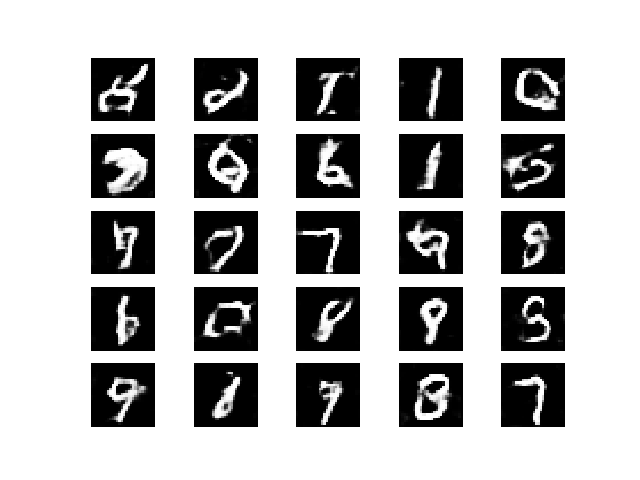
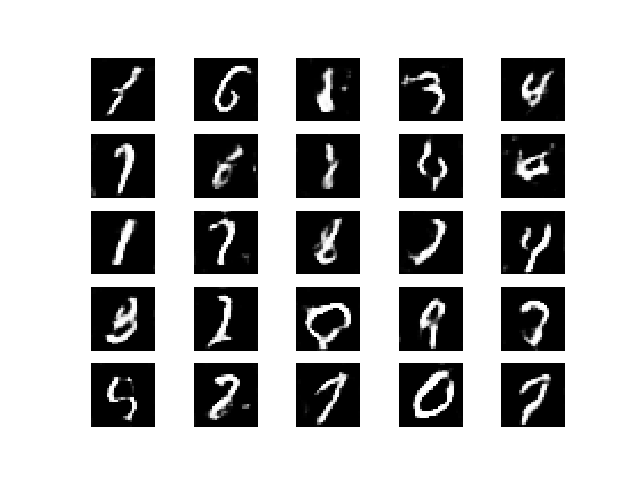
Add output of running dcgan for 20000 epochs

diff --git a/Project_on_MNIST/CGAN.py b/Project_on_MNIST/CGAN.py
@@ -83,9 +83,14 @@ class CGAN():
         noise = Input(shape=(self.latent_dim,))
         label = Input(shape=(1,), dtype='int32')
         label_embedding = Flatten()(Embedding(self.num_classes, self.latent_dim)(label))
+        print("build_generator, label_embedding", label_embedding)
 
         model_input = multiply([noise, label_embedding])
+        print("build_generator, model_input", model_input)
+
         img = model(model_input)
+        print("build_generator, img", img)
+
 
         return Model([noise, label], img)
 
@@ -192,4 +197,4 @@ class CGAN():
 
 if __name__ == '__main__':
     cgan = CGAN()
-    cgan.train(epochs=20000, batch_size=32, sample_interval=200)
+    cgan.train(epochs=20001, batch_size=32, sample_interval=200)

diff --git a/Project_on_MNIST/DCGAN.py b/Project_on_MNIST/DCGAN.py
@@ -180,4 +180,4 @@ class DCGAN():
 
 if __name__ == '__main__':
     dcgan = DCGAN()
-    dcgan.train(epochs=1, batch_size=32, save_interval=50)
+    dcgan.train(epochs=20001, batch_size=32, save_interval=200)
